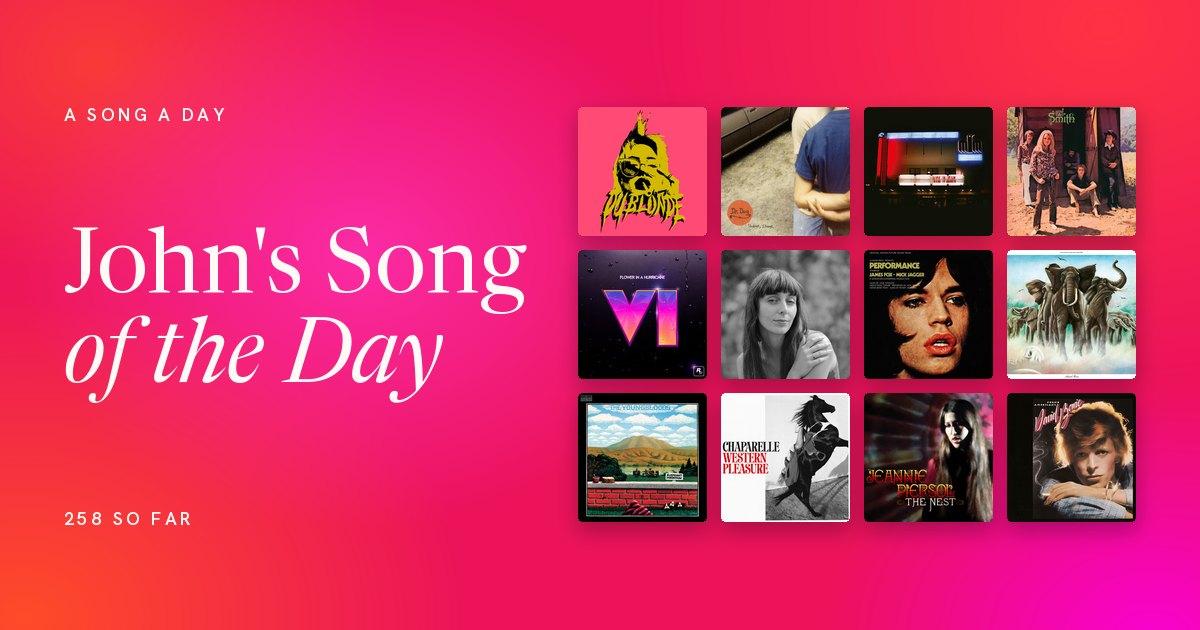
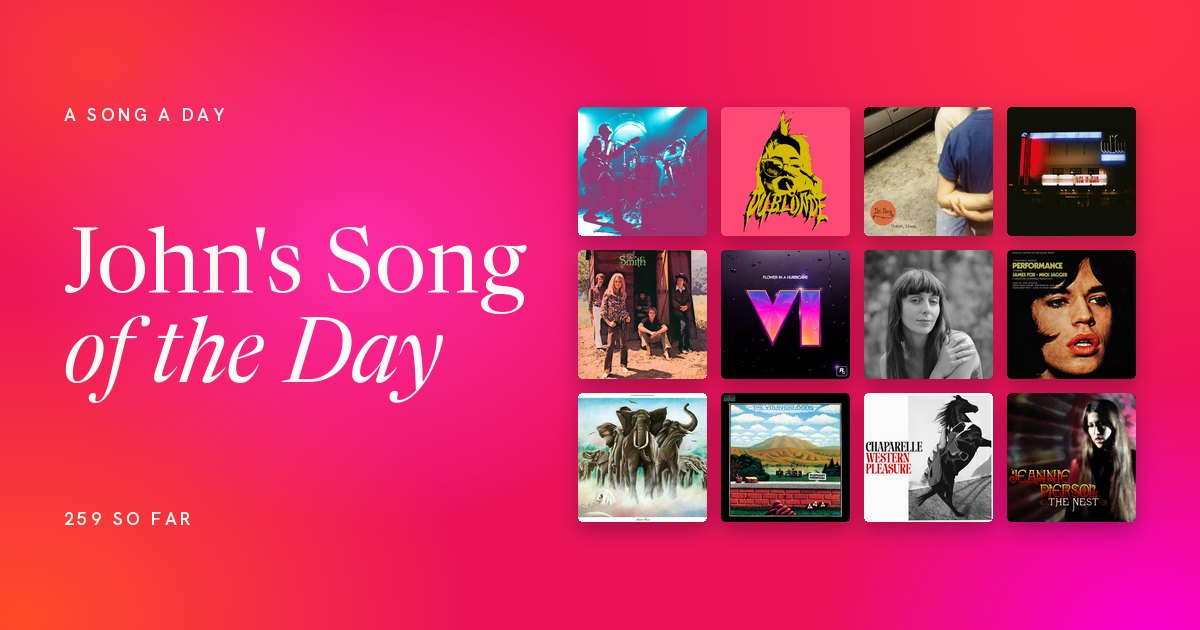
Song moods and genres: update from the latest songs

Changed region(s): [[0.4625, 0.1508, 0.9558, 0.8444], [0.0617, 0.8143, 0.0925, 0.8444]]

diff --git a/songs/today/index.html b/songs/today/index.html
@@ -3,24 +3,24 @@
 <head>
 <meta charset="utf-8">
 <meta name="viewport" content="width=device-width,initial-scale=1">
-<title>Take One For The Team · John's Song of the Day</title>
-<meta name="description" content="Du Blonde · John&#x27;s Song of the Day, Sunday 25 October 2026">
+<title>Here Comes the Night · John's Song of the Day</title>
+<meta name="description" content="KOLARS · John&#x27;s Song of the Day, Monday 26 October 2026">
 <link rel="canonical" href="https://cooperking.github.io/songs/today/">
 <meta property="og:type" content="music.song">
 <meta property="og:site_name" content="John's Song of the Day">
-<meta property="og:title" content="Take One For The Team">
-<meta property="og:description" content="Du Blonde · John&#x27;s Song of the Day, Sunday 25 October 2026">
+<meta property="og:title" content="Here Comes the Night">
+<meta property="og:description" content="KOLARS · John&#x27;s Song of the Day, Monday 26 October 2026">
 <meta property="og:url" content="https://cooperking.github.io/songs/today/">
-<meta property="og:image" content="https://cooperking.github.io/songs/25-10-2026/card.jpg">
-<meta property="og:image:secure_url" content="https://cooperking.github.io/songs/25-10-2026/card.jpg">
+<meta property="og:image" content="https://cooperking.github.io/songs/26-10-2026/card.jpg">
+<meta property="og:image:secure_url" content="https://cooperking.github.io/songs/26-10-2026/card.jpg">
 <meta property="og:image:type" content="image/jpeg">
 <meta property="og:image:width" content="1200">
 <meta property="og:image:height" content="630">
-<meta property="og:image:alt" content="Take One For The Team by Du Blonde">
-<meta name="twitter:image" content="https://cooperking.github.io/songs/25-10-2026/card.jpg">
+<meta property="og:image:alt" content="Here Comes the Night by KOLARS">
+<meta name="twitter:image" content="https://cooperking.github.io/songs/26-10-2026/card.jpg">
 <meta name="twitter:card" content="summary_large_image">
-<meta name="twitter:title" content="Take One For The Team">
-<meta name="twitter:description" content="Du Blonde · John&#x27;s Song of the Day, Sunday 25 October 2026">
+<meta name="twitter:title" content="Here Comes the Night">
+<meta name="twitter:description" content="KOLARS · John&#x27;s Song of the Day, Monday 26 October 2026">
 <meta name="theme-color" content="#ec135b">
 <link rel="icon" type="image/png" sizes="96x96" href="https://cooperking.github.io/songs/favicon-96.png?v=2">
 <link rel="icon" type="image/png" sizes="192x192" href="https://cooperking.github.io/songs/icon-192.png?v=2">
@@ -28,6 +28,6 @@
 <script>if (!/bot|crawl|spider|preview|facebookexternalhit|facebot|whatsapp|telegram|slack|discord|linkedin|pinterest|embedly|iframely|skype|viber|signal|vkshare|redditbot|applebot|google|bing/i.test(navigator.userAgent)) location.replace("../" + location.search + "#today");</script>
 </head>
 <body style="font-family: Georgia, serif; padding: 24px;">
-<p><a href="../#today">Take One For The Team by Du Blonde</a>, John's Song of the Day for Sunday 25 October 2026.</p>
+<p><a href="../#today">Here Comes the Night by KOLARS</a>, John's Song of the Day for Monday 26 October 2026.</p>
 </body>
 </html>

diff --git a/songs/26-10-2026/index.html b/songs/26-10-2026/index.html
@@ -1,0 +1,33 @@
+<!doctype html>
+<html lang="en">
+<head>
+<meta charset="utf-8">
+<meta name="viewport" content="width=device-width,initial-scale=1">
+<title>Here Comes the Night · John's Song of the Day</title>
+<meta name="description" content="KOLARS · John&#x27;s Song of the Day, Monday 26 October 2026">
+<link rel="canonical" href="https://cooperking.github.io/songs/26-10-2026/">
+<meta property="og:type" content="music.song">
+<meta property="og:site_name" content="John's Song of the Day">
+<meta property="og:title" content="Here Comes the Night">
+<meta property="og:description" content="KOLARS · John&#x27;s Song of the Day, Monday 26 October 2026">
+<meta property="og:url" content="https://cooperking.github.io/songs/26-10-2026/">
+<meta property="og:image" content="https://cooperking.github.io/songs/26-10-2026/card.jpg">
+<meta property="og:image:secure_url" content="https://cooperking.github.io/songs/26-10-2026/card.jpg">
+<meta property="og:image:type" content="image/jpeg">
+<meta property="og:image:width" content="1200">
+<meta property="og:image:height" content="630">
+<meta property="og:image:alt" content="Here Comes the Night by KOLARS">
+<meta name="twitter:image" content="https://cooperking.github.io/songs/26-10-2026/card.jpg">
+<meta name="twitter:card" content="summary_large_image">
+<meta name="twitter:title" content="Here Comes the Night">
+<meta name="twitter:description" content="KOLARS · John&#x27;s Song of the Day, Monday 26 October 2026">
+<meta name="theme-color" content="#ec135b">
+<link rel="icon" type="image/png" sizes="96x96" href="https://cooperking.github.io/songs/favicon-96.png?v=2">
+<link rel="icon" type="image/png" sizes="192x192" href="https://cooperking.github.io/songs/icon-192.png?v=2">
+<link rel="apple-touch-icon" sizes="180x180" href="https://cooperking.github.io/songs/apple-touch-icon.png?v=2">
+<script>if (!/bot|crawl|spider|preview|facebookexternalhit|facebot|whatsapp|telegram|slack|discord|linkedin|pinterest|embedly|iframely|skype|viber|signal|vkshare|redditbot|applebot|google|bing/i.test(navigator.userAgent)) location.replace("../" + location.search + "#26-10-2026");</script>
+</head>
+<body style="font-family: Georgia, serif; padding: 24px;">
+<p><a href="../#26-10-2026">Here Comes the Night by KOLARS</a>, John's Song of the Day for Monday 26 October 2026.</p>
+</body>
+</html>

diff --git a/songs/10-2026/index.html b/songs/10-2026/index.html
@@ -4,12 +4,12 @@
 <meta charset="utf-8">
 <meta name="viewport" content="width=device-width,initial-scale=1">
 <title>October 2026 · John's Song of the Day</title>
-<meta name="description" content="25 songs for each day">
+<meta name="description" content="26 songs for each day">
 <link rel="canonical" href="https://cooperking.github.io/songs/10-2026/">
 <meta property="og:type" content="website">
 <meta property="og:site_name" content="John's Song of the Day">
 <meta property="og:title" content="October 2026">
-<meta property="og:description" content="25 songs for each day">
+<meta property="og:description" content="26 songs for each day">
 <meta property="og:url" content="https://cooperking.github.io/songs/10-2026/">
 <meta property="og:image" content="https://cooperking.github.io/songs/10-2026/card.jpg">
 <meta property="og:image:secure_url" content="https://cooperking.github.io/songs/10-2026/card.jpg">
@@ -26,6 +26,6 @@
 <script>if (!/bot|crawl|spider|preview|facebookexternalhit|facebot|whatsapp|telegram|slack|discord|linkedin|pinterest|embedly|iframely|skype|viber|signal|vkshare|redditbot|applebot|google|bing/i.test(navigator.userAgent)) location.replace("../" + location.search + "#10-2026");</script>
 </head>
 <body style="font-family: Georgia, serif; padding: 24px;">
-<p><a href="../#10-2026">October 2026</a>: 25 songs for each day</p>
+<p><a href="../#10-2026">October 2026</a>: 26 songs for each day</p>
 </body>
 </html>

diff --git a/songs/index.html b/songs/index.html
@@ -3,11 +3,11 @@
 <head>
 <meta charset="utf-8">
 <meta name="viewport" content="width=device-width, initial-scale=1, viewport-fit=cover">
-<meta name="description" content="A song a day, 258 so far">
+<meta name="description" content="A song a day, 259 so far">
 <meta name="theme-color" content="#ec135b">
 <meta property="og:type" content="website">
 <meta property="og:title" content="John’s Song of the Day">
-<meta property="og:description" content="A song a day, 258 so far">
+<meta property="og:description" content="A song a day, 259 so far">
 <meta property="og:url" content="https://cooperking.github.io/songs/">
 <meta property="og:image" content="https://cooperking.github.io/songs/card.jpg">
 <meta property="og:image:type" content="image/jpeg">
